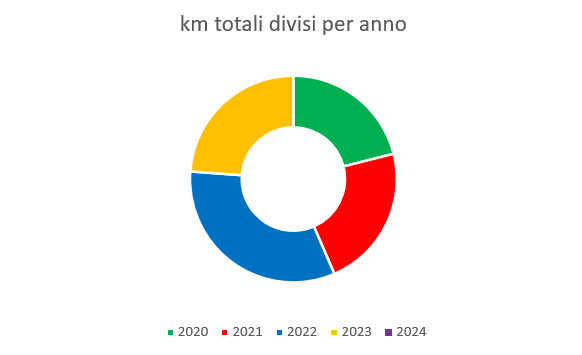
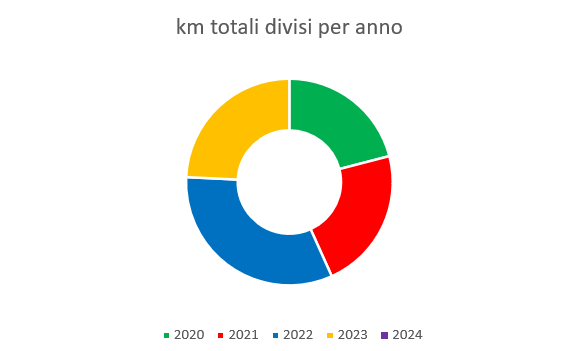
Add files via upload

diff --git a/Statistiche/Statistiche2023.html b/Statistiche/Statistiche2023.html
@@ -49,61 +49,61 @@
         <tr>
             <td>Gennaio</td>
             <td>127</td>
-            <td>4,57%</td>
+            <td>4,47%</td>
         </tr>
 
         <tr>
             <td>Febbraio</td>
             <td>148</td>
-            <td>5,33%</td>
+            <td>5,21%</td>
         </tr>
 
         <tr>
             <td>Marzo</td>
             <td>194</td>
-            <td>6,99%</td>
+            <td>6,83%</td>
         </tr>
 
         <tr>
             <td>Aprile</td>
             <td>103</td>
-            <td>3,71%</td>
+            <td>3,63%</td>
         </tr>
 
         <tr>
             <td>Maggio</td>
             <td>242</td>
-            <td>8,72%</td>
+            <td>8,52%</td>
         </tr>
 
         <tr>
             <td>Giugno</td>
             <td>265</td>
-            <td>9,55%</td>
+            <td>9,33%</td>
         </tr>
 
         <tr>
             <td>Luglio</td>
             <td>422</td>
-            <td>15,20%</td>
+            <td>14,86%</td>
         </tr>
 
         <tr>
             <td>Agosto</td>
             <td>426</td>
-            <td>15,35%</td>
+            <td>15,00%</td>
         </tr>
 
         <tr>
             <td>Settembre</td>
             <td>712</td>
-            <td>25,65%</td>
+            <td>25,07%</td>
         </tr>
 
         <tr>
             <td>Ottobre</td>
-            <td>137</td>
-            <td>4,94%</td>
+            <td>201</td>
+            <td>7,08%</td>
         </tr>
 
     </table>
@@ -114,10 +114,10 @@
 
     <br>
     <div class="colore">
-        <p>totale km 2.776
+        <p>totale km 2.840
             <img src="../Icone/traguardo.png">
         </p>
-        <p>km medi percorsi 63,09</p>
+        <p>km medi percorsi 63,11</p>
     </div>
     <br>
 

diff --git a/Statistiche.html b/Statistiche.html
@@ -86,7 +86,7 @@
             </td>
 
             <td>
-                21,10%
+                21,00%
             </td>
 
         </tr>
@@ -102,7 +102,7 @@
             </td>
 
             <td>
-                22,40%
+                22,30%
             </td>
         </tr>
 
@@ -116,7 +116,7 @@
             </td>
 
             <td>
-                32,70%
+                32,50%
             </td>
 
         </tr>
@@ -127,11 +127,11 @@
             </td>
 
             <td>
-                2.776
+                2.840
             </td>
 
             <td>
-                23,80%
+                24,20%
             </td>
 
         </tr>
@@ -161,11 +161,11 @@
 
     <div class="colore">
         <p>
-            totale km fatti 11.654
+            totale km fatti 11.718
             <img src="Icone/traguardo.png">
         </p>
 
-        <p>km medi percorsi 69,37 </p>
+        <p>km medi percorsi 69,34 </p>
 
     </div>
 

diff --git a/Autunno_Inverno/Autunno_Inverno2023-2024.html b/Autunno_Inverno/Autunno_Inverno2023-2024.html
@@ -68,14 +68,24 @@
             <td>km</td>
         </tr>
 
+        <tr>
+            <td>10 ottobre</td>
+            <td>3</td>
+            <td><a href="https://www.komoot.com/it-it/tour/1343753510?ref=wtd&share_token=a4maj6fqx1sUQTCLduc38RxWiFz9BxLhYmX95O1lJiNRNUK0tw"
+                    target="_blank">Ronchis + Ariis
+                </a></td>
+            <td>61</td>
+            <td>km</td>
+        </tr>
+
     </table>
 
     <br>
     <div class="colore">
-        <p> totale km 137
+        <p> totale km 201
             <img src="../Icone/traguardo.png">
         </p>
-        <p>km medi percorsi 68,50</p>
+        <p>km medi percorsi 67,00</p>
     </div>
 </body>
 

diff --git a/Giri.html b/Giri.html
@@ -251,11 +251,11 @@
     <a href="Statistiche.html">
         <div class="colore">
             <p>
-                totale km fatti 11.654
+                totale km fatti 11.718
                 <img src="Icone/traguardo.png">
             </p>
 
-            <p>km medi percorsi 69,37 </p>
+            <p>km medi percorsi 69,34 </p>
 
         </div>
     </a>

diff --git a/Autunno_Inverno.html b/Autunno_Inverno.html
@@ -106,7 +106,7 @@
                 </td>
     
                 <td>
-                    137
+                    201
                 </td>
             </tr>
 
